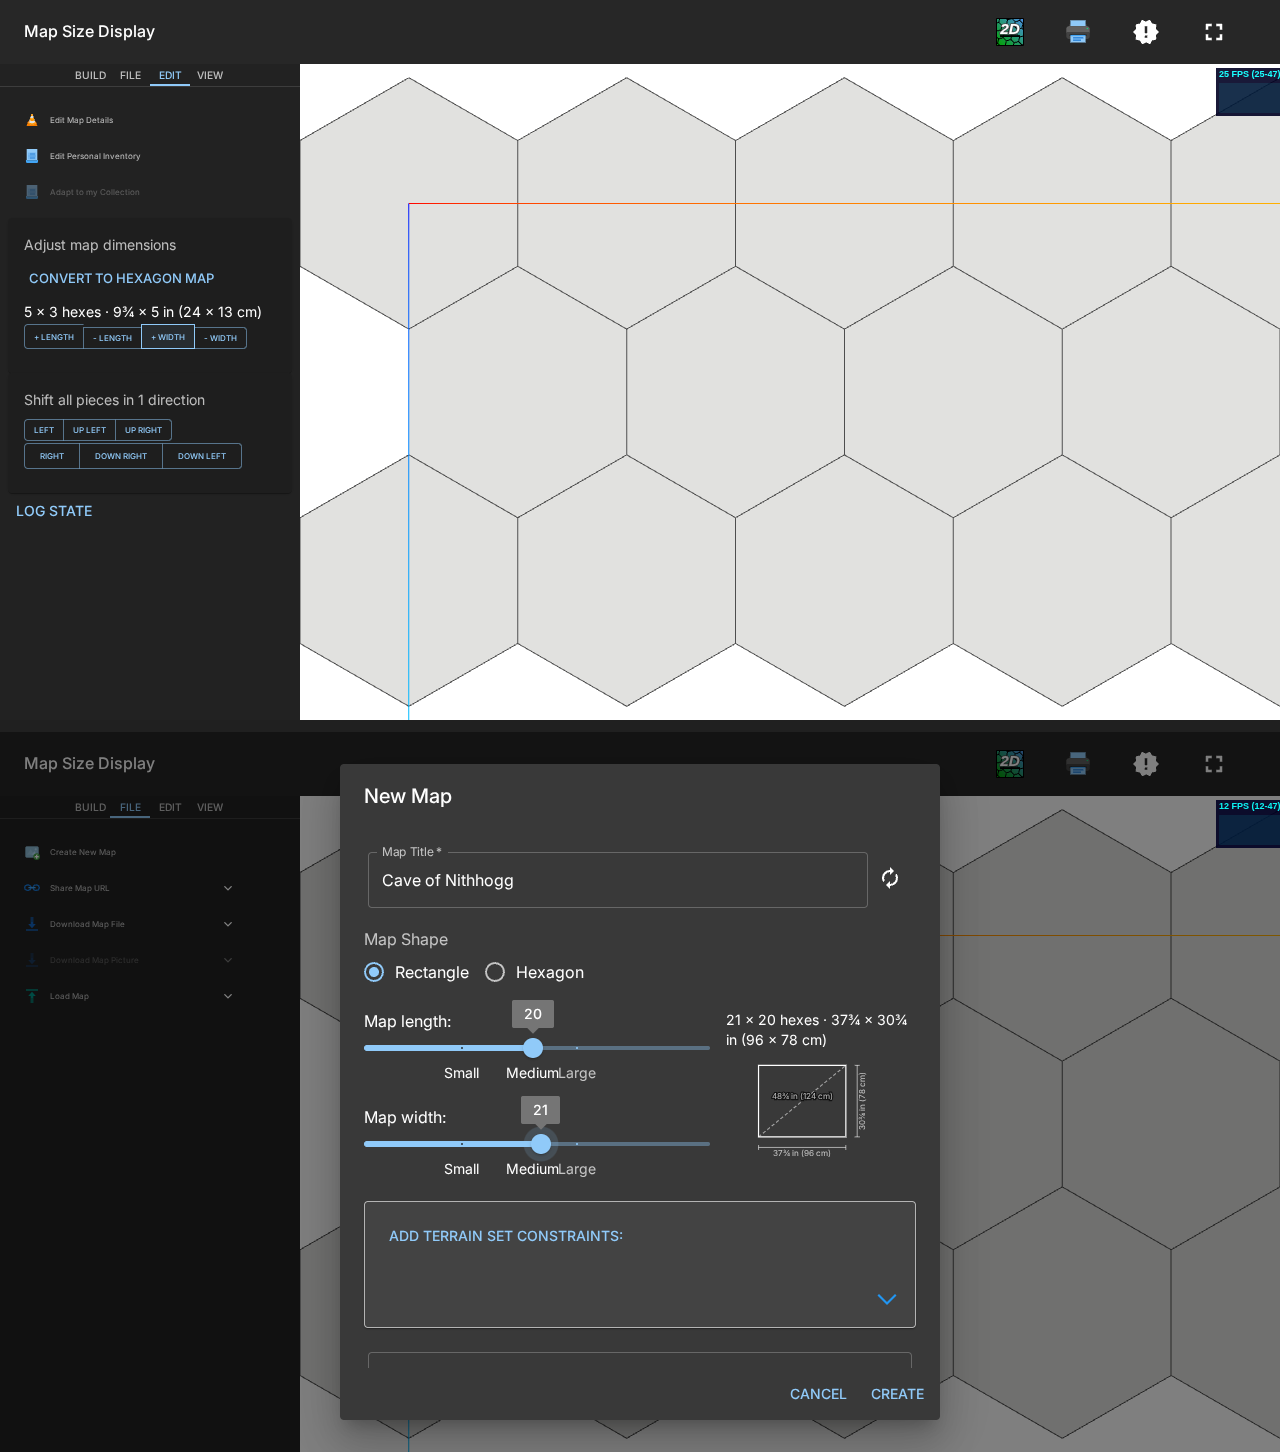
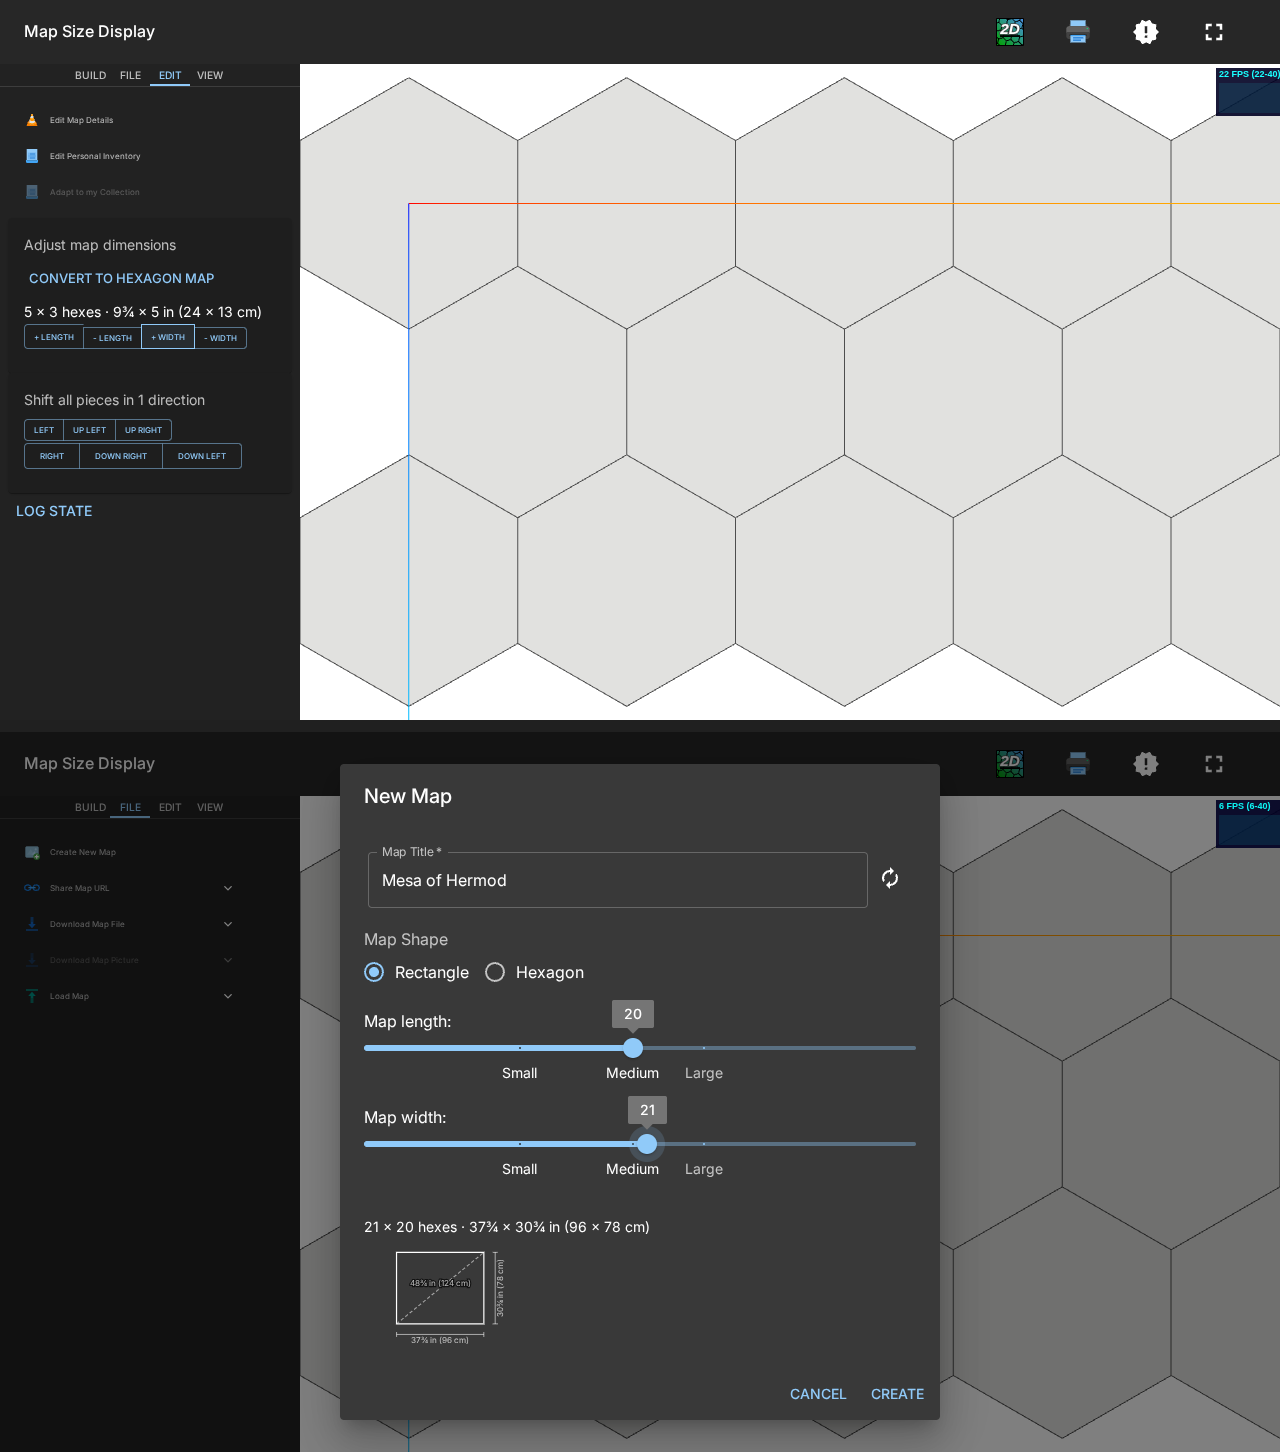
Move map size details below sliders
Restore full width to Create New Map dimension sliders.

diff --git a/src/layout/CreateMapFormDialog.tsx b/src/layout/CreateMapFormDialog.tsx
@@ -243,12 +243,11 @@ export default function CreateMapFormDialog() {
           <Box
             sx={{
               display: 'flex',
-              alignItems: 'center',
+              flexDirection: 'column',
               gap: 2,
-              flexWrap: 'wrap',
             }}
           >
-            <Box sx={{ flex: '1 1 260px', minWidth: 220 }}>
+            <Box sx={{ width: '100%' }}>
               {mapShape === 'rectangle' ? (
                 <>
                   <Box sx={{ marginY: '1em' }}>
@@ -300,9 +299,7 @@ export default function CreateMapFormDialog() {
                 </Box>
               )}
             </Box>
-            <Box sx={{ flex: '0 1 190px', minWidth: 180 }}>
-              <MapSizeDisplay hexMap={physicalSizeMap} showDiagram />
-            </Box>
+            <MapSizeDisplay hexMap={physicalSizeMap} showDiagram />
           </Box>
           {/* TERRAIN SETS */}
           <InputSetsUsedCard isCreateNewMap />
